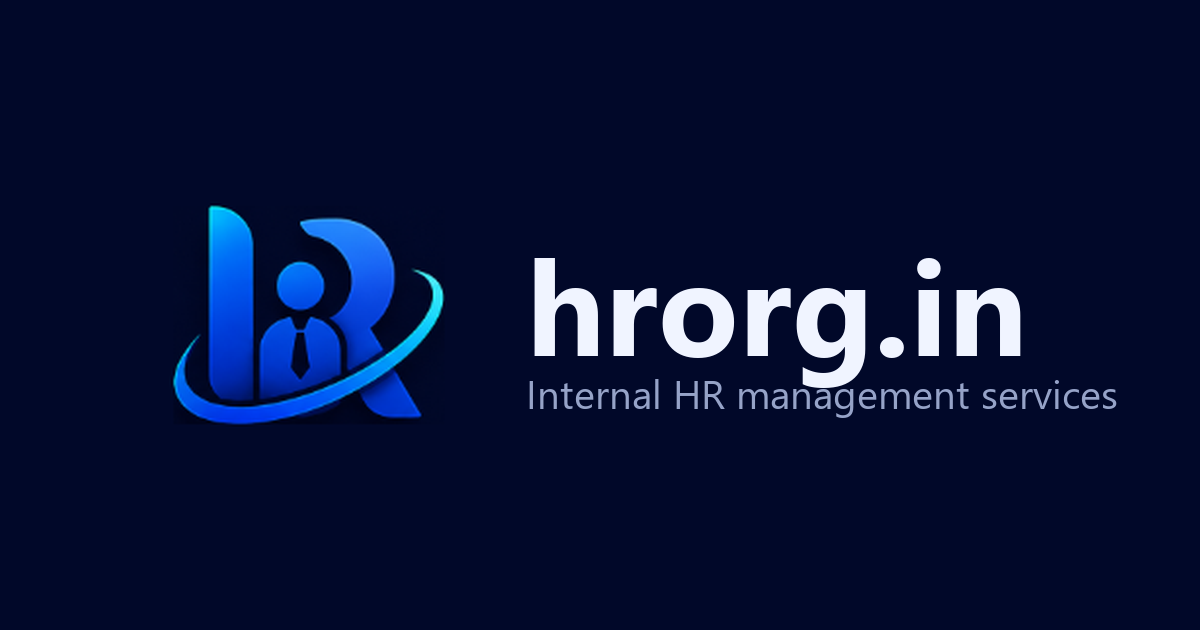
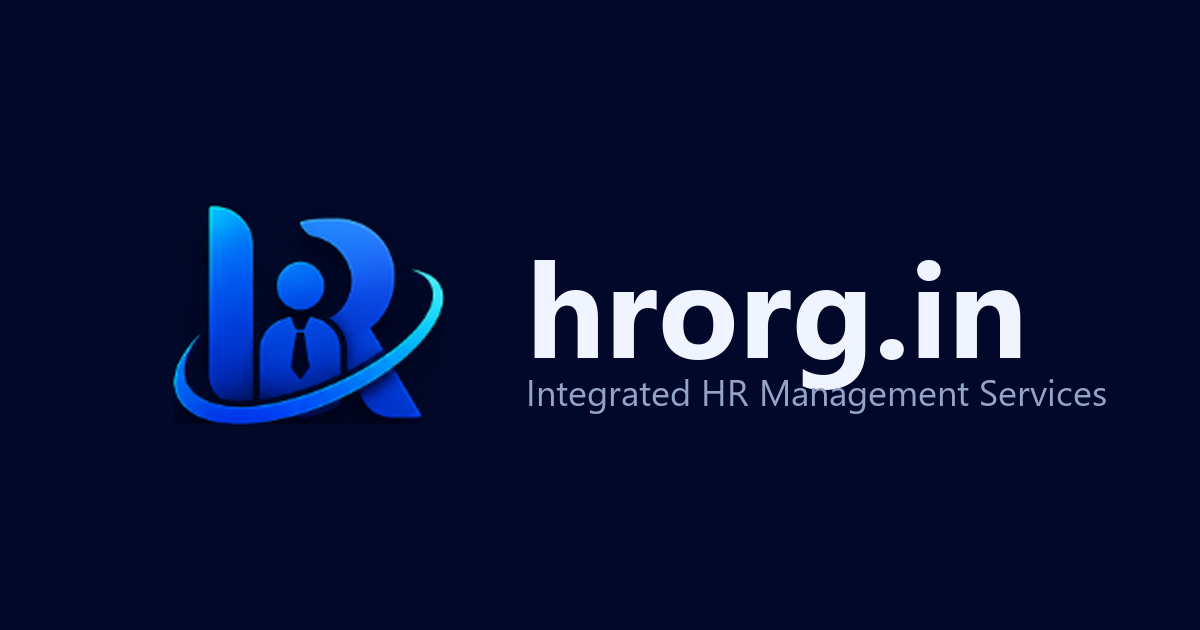
refactor(brand): subtitle -> "Integrated HR Management Services" (one constant)
The brand subtitle becomes exactly "Integrated HR Management Services" (new
word + Title Case; was sentence-case "Internal HR management services" on the
marketing surface and "Integrated HR Management" — missing "Services" — in the
app auth panels). Both now converge on ONE shared source of truth so the
wording and casing can't drift again.

- New lib/brand.ts exports BRAND_NAME / BRAND_SUBTITLE / BRAND_TITLE; every
  render point + all metadata import from it: marketing nav + footer subtitle
  and footer copyright, the (marketing) layout <title>/OG/Twitter titles + the
  OG image alt, and the AuthShell portalLabel default (both login doors drop
  their hardcoded override and inherit it).
- public/brand/og-image.png regenerated with the new Title Case subtitle line
  (same mark, navy, composition) and viewed.

"internal" as an ordinary word is intentionally KEPT everywhere it is the
accurate term (not the brand subtitle): "internal HR operations", "internal
communications", the "internal clearance checklist", etc. — those read
correctly alongside the new name.

Verified: grep "Internal HR management services" and the half-changed
"Integrated HR management services" -> ZERO in source AND in built HTML; the
literal "Integrated HR Management Services" exists once (lib/brand.ts) and
renders at nav/footer/both auth panels + in the prerendered <title>/OG/Twitter/
alt. pnpm build green — marketing routes still ○ Static, first-load JS
[…]

diff --git a/apps/web/app/(marketing)/layout.tsx b/apps/web/app/(marketing)/layout.tsx
@@ -3,6 +3,7 @@ import type { ReactNode } from 'react';
 import { Inter } from 'next/font/google';
 import { MarketingNav } from '@/components/marketing/marketing-nav';
 import { SiteFooter } from '@/components/marketing/site-footer';
+import { BRAND_NAME, BRAND_TITLE } from '@/lib/brand';
 import '../globals.css';
 
 const inter = Inter({ subsets: ['latin'], variable: '--font-sans', display: 'swap' });
@@ -26,14 +27,14 @@ const OG_IMAGE = {
   url: '/brand/og-image.png',
   width: 1200,
   height: 630,
-  alt: 'hrorg.in — Internal HR management services',
+  alt: BRAND_TITLE,
 };
 
 export const metadata: Metadata = {
   ...(SITE_URL ? { metadataBase: new URL(SITE_URL) } : {}),
-  title: 'hrorg.in — Internal HR management services',
+  title: BRAND_TITLE,
   description: DESCRIPTION,
-  applicationName: 'hrorg.in',
+  applicationName: BRAND_NAME,
   robots: { index: true, follow: true },
   // Browser-tab + app icons — the hrorg.in mark (served from /public/brand).
   icons: {
@@ -46,14 +47,14 @@ export const metadata: Metadata = {
   },
   openGraph: {
     type: 'website',
-    title: 'hrorg.in — Internal HR management services',
+    title: BRAND_TITLE,
     description: DESCRIPTION,
-    siteName: 'hrorg.in',
+    siteName: BRAND_NAME,
     images: [OG_IMAGE],
   },
   twitter: {
     card: 'summary_large_image',
-    title: 'hrorg.in — Internal HR management services',
+    title: BRAND_TITLE,
     description: DESCRIPTION,
     images: [OG_IMAGE.url],
   },

diff --git a/apps/web/components/marketing/site-footer.tsx b/apps/web/components/marketing/site-footer.tsx
@@ -1,6 +1,7 @@
 import * as React from 'react';
 import Link from 'next/link';
 import { Mail } from 'lucide-react';
+import { BRAND_NAME, BRAND_SUBTITLE } from '@/lib/brand';
 import { BrandMark } from '@/components/brand-mark';
 
 /**
@@ -24,7 +25,7 @@ export function SiteFooter() {
             <BrandMark size={36} />
             <span className="leading-tight">
               <span className="block text-sm font-semibold text-foreground">hrorg.in</span>
-              <span className="block text-[11px] text-muted-foreground/70">Internal HR management services</span>
+              <span className="block text-[11px] text-muted-foreground/70">{BRAND_SUBTITLE}</span>
             </span>
           </Link>
 
@@ -48,7 +49,7 @@ export function SiteFooter() {
         </div>
 
         <p className="mt-6 text-center text-xs text-muted-foreground/70">
-          © hrorg.in · Internal HR management services.
+          © {BRAND_NAME} · {BRAND_SUBTITLE}.
         </p>
       </div>
     </footer>

diff --git a/apps/web/components/auth/auth-shell.tsx b/apps/web/components/auth/auth-shell.tsx
@@ -1,5 +1,6 @@
 import * as React from 'react';
 import { Lock } from 'lucide-react';
+import { BRAND_SUBTITLE } from '@/lib/brand';
 import { BrandMark } from '@/components/brand-mark';
 import {
   Card,
@@ -26,7 +27,7 @@ export function AuthShell({
   description,
   children,
   footer,
-  portalLabel = 'Integrated HR Management',
+  portalLabel = BRAND_SUBTITLE,
   badgeLabel = 'Secure access',
 }: {
   icon: React.ReactNode;
@@ -34,7 +35,7 @@ export function AuthShell({
   description: React.ReactNode;
   children: React.ReactNode;
   footer?: React.ReactNode;
-  /** Left-panel sub-label under hrorg.in (defaults to the "Integrated HR Management" tagline). */
+  /** Left-panel sub-label under hrorg.in (defaults to the shared {@link BRAND_SUBTITLE}). */
   portalLabel?: string;
   /** Secure-badge heading (e.g. "Secure employee access" / "Secure staff access"). */
   badgeLabel?: string;

diff --git a/apps/web/components/marketing/marketing-nav.tsx b/apps/web/components/marketing/marketing-nav.tsx
@@ -5,6 +5,7 @@ import Link from 'next/link';
 import { usePathname } from 'next/navigation';
 import { Menu, X } from 'lucide-react';
 import { cn } from '@/lib/utils';
+import { BRAND_SUBTITLE } from '@/lib/brand';
 import { BrandMark } from '@/components/brand-mark';
 
 /**
@@ -29,7 +30,7 @@ function Brand() {
       <BrandMark size={36} className="shadow-sm shadow-primary/40" />
       <span className="leading-tight">
         <span className="block text-[15px] font-semibold tracking-tight text-foreground">hrorg.in</span>
-        <span className="block text-[10px] text-muted-foreground/70">Internal HR management services</span>
+        <span className="block text-[10px] text-muted-foreground/70">{BRAND_SUBTITLE}</span>
       </span>
     </Link>
   );

diff --git a/apps/web/lib/brand.ts b/apps/web/lib/brand.ts
@@ -1,0 +1,11 @@
+/**
+ * The hrorg.in brand identity — the ONE source of truth for the brand name + subtitle, so the exact wording
+ * AND its Title Case can never drift again. Every render point (marketing nav/footer, the auth panels) and
+ * every piece of metadata (page titles, OG/Twitter titles + alt) imports from here; the composed
+ * public/brand/og-image.png is regenerated from the same text. Plain constants → usable in both server and
+ * client components.
+ */
+export const BRAND_NAME = 'hrorg.in';
+export const BRAND_SUBTITLE = 'Integrated HR Management Services';
+/** The full brand line used in <title>/OG titles + the OG image alt. */
+export const BRAND_TITLE = `${BRAND_NAME} — ${BRAND_SUBTITLE}`;

diff --git a/apps/web/app/(app)/employee/login/page.tsx b/apps/web/app/(app)/employee/login/page.tsx
@@ -39,7 +39,6 @@ export default function EmployeeLoginPage() {
       icon={<UserRound className="size-6" />}
       title="Welcome to hrorg.in"
       description="Enter your full name and email and we'll send you a one-time code."
-      portalLabel="Integrated HR Management"
       badgeLabel="Secure employee access"
       footer={
         <Link href="/login" className="text-sm text-muted-foreground hover:text-foreground">

diff --git a/apps/web/app/(app)/login/page.tsx b/apps/web/app/(app)/login/page.tsx
@@ -37,7 +37,6 @@ export default function LoginPage() {
       icon={<BrandMark size={48} rounded="rounded-2xl" />}
       title="Welcome to hrorg.in"
       description="Sign in to hrorg.in with your email and password."
-      portalLabel="Integrated HR Management"
       badgeLabel="Secure staff access"
       footer={
         <Link href="/employee/login" className="text-sm text-muted-foreground hover:text-foreground">
